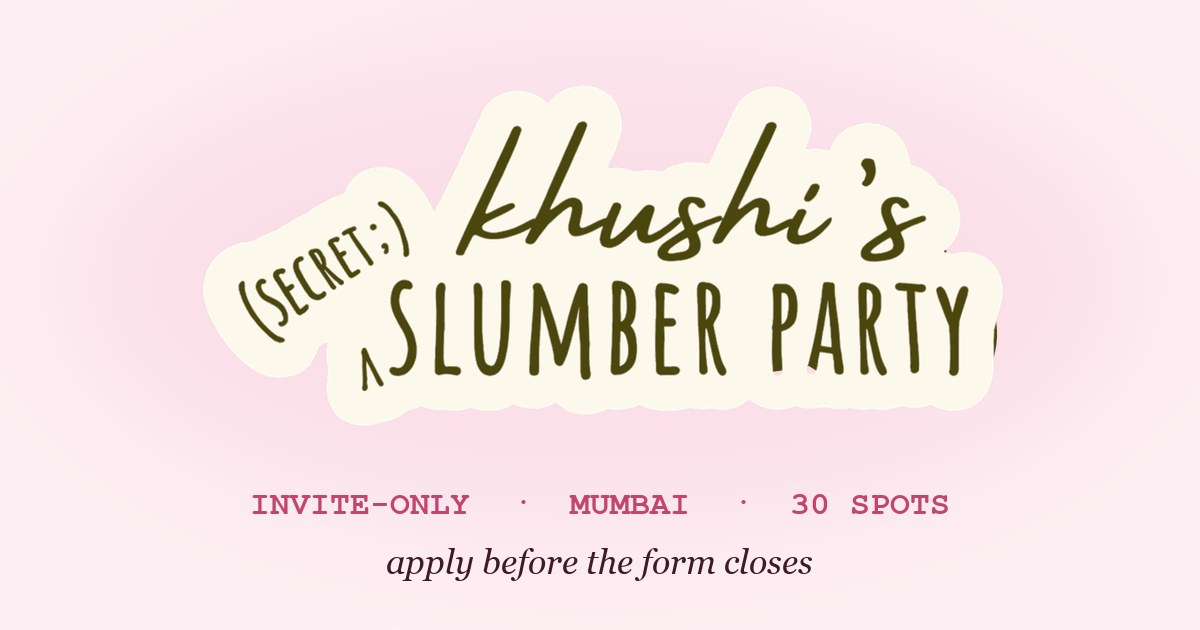
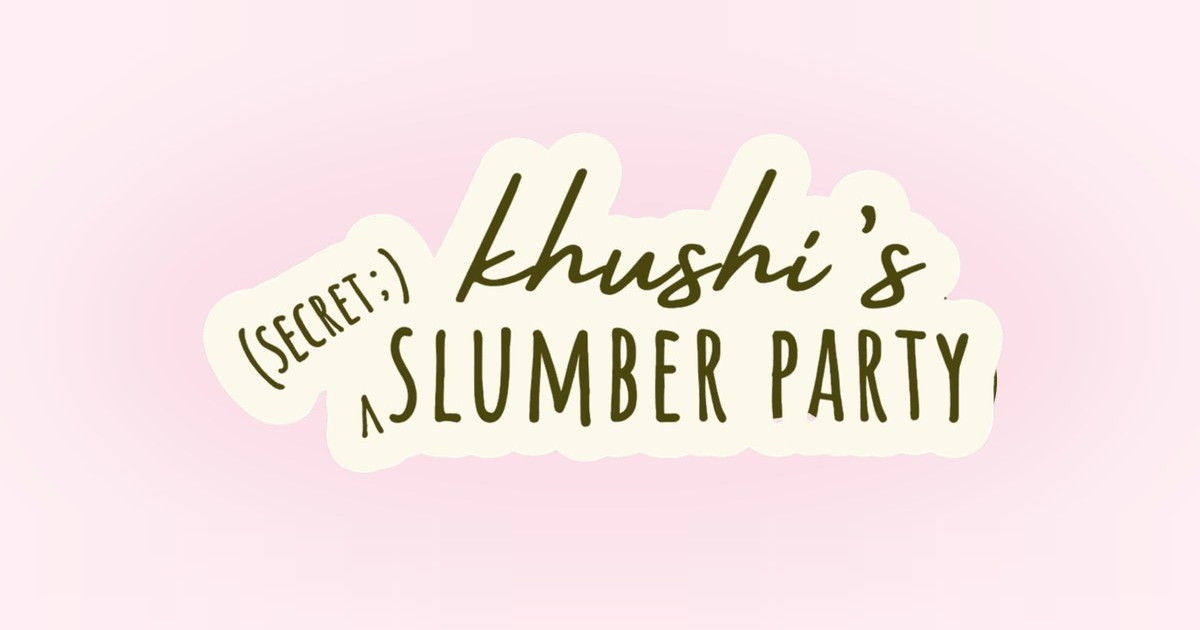
Team & vendors in admin, headcount, and the check-in thread as a phone on desktop
Team & vendors: a `crew` table (name, team/vendor, what they're doing, headcount,
staying over, notes) with admin-only RLS in both directions — the public key can
neither read it nor write to it. One row can cover several people, because a
catering company is one entry and six humans, and six near-identical rows is not
a roster.

Headcount tile totals the people to plan for: besties + creators + crew. Guests
count one each, crew count their headcount. A guest with no tier counts as a
bestie — that's what the list was before creators existed.

Check-in on desktop now gets the besties treatment: at ≥800px it stops being a
full-width page and becomes her phone held in the middle of the room. Stretched
across a monitor the bubbles read as a web form; at 30rem they read as a DM.

That made the thread its own scroll container, which broke following the newest
message: repeated smooth scrollIntoView calls inside a nested scroller interrupt
each other and never converge, leaving the thread stranded partway up with the
newest bubble below the fold (measured: 345 of 1124 scrollable pixels). All six
call sites now go through keepUp(), which aims at the container's bottom instead
— every call re-aims at the true end from wherever the last animation stopped.
The phone path is untouched and still lands clear of the compose bar.

Sharing card: copy is now "something big is coming", and the card is just the
logo — the taglines went with it, one of which still said 30 spots. Also
[…]

diff --git a/admin/index.html b/admin/index.html
@@ -151,6 +151,10 @@
   .tier{ font-size:.7rem; letter-spacing:.04em; text-transform:uppercase;
     border:1px solid var(--line); border-radius:100px; padding:.1rem .45rem; color:var(--ink-2); }
   .tier.creator{ border-color:var(--series); color:var(--series); }
+  .tier.vendor{ border-color:var(--ink-3); }
+  #crewTbl td, #crewTbl th{ white-space:nowrap; }
+  #crewTbl td:nth-child(6){ font-size:.78rem; color:var(--ink-2); min-width:160px; }
+  .yes{ color:var(--series); }
   code.invite{ font-family:var(--mono); font-size:.95rem; color:var(--ink-2);
     user-select:all; }
 
@@ -320,6 +324,48 @@
       is done: the reason to hold someone's Aadhaar for a party is gone the moment the party is.</p>
   </section>
 
+  <!-- ------------------------------------------------------- team & vendors -->
+  <section class="panel" style="margin-top:18px">
+    <div class="tablebar">
+      <h2 style="flex:1">team &amp; vendors</h2>
+      <span class="pill" id="crewCount">—</span>
+      <button class="btn ghost" id="crewCsv" type="button">download csv</button>
+    </div>
+    <p class="sub">everyone working the party, and who needs a bed. one row can cover several
+      people — set the headcount rather than adding a row each.</p>
+
+    <div class="scroll">
+      <table id="crewTbl">
+        <thead><tr>
+          <th>name</th><th>kind</th><th>doing what</th><th>people</th><th>staying</th>
+          <th>notes</th><th></th>
+        </tr></thead>
+        <tbody id="crewBody"></tbody>
+      </table>
+    </div>
+    <p class="empty" id="crewEmpty" hidden>nobody added yet.</p>
+
+    <form id="crewForm" style="display:flex;gap:8px;flex-wrap:wrap;align-items:flex-end;margin-top:14px">
+      <label style="flex:2;min-width:150px">name
+        <input id="crewName" type="text" placeholder="e.g. Ravi / Sunrise Catering" required
+          style="margin:0" /></label>
+      <label style="flex:1;min-width:110px">kind
+        <select id="crewKind" style="width:100%;font:inherit;color:var(--ink);background:var(--surface-2);
+          border:1px solid var(--line);border-radius:9px;padding:.6rem .75rem">
+          <option value="team">team</option>
+          <option value="vendor">vendor</option>
+        </select></label>
+      <label style="flex:2;min-width:140px">doing what
+        <input id="crewRole" type="text" placeholder="photographer, catering…" style="margin:0" /></label>
+      <label style="flex:0 0 92px">people
+        <input id="crewHead" type="number" min="1" max="99" value="1" style="margin:0" /></label>
+      <label style="flex:0 0 auto;display:flex;align-items:center;gap:.4rem;padding-bottom:.55rem">
+        <input id="crewStay" type="checkbox" style="width:auto;margin:0" /> staying over</label>
+      <button class="btn" type="submit" style="width:auto">add</button>
+      <span class="sub" id="crewMsg" style="margin:0"></span>
+    </form>
+  </section>
+
   <!-- Only rendered when there's something to say. A permanent "0 failures" panel
        trains you to ignore the space it occupies. -->
   <section class="panel" id="failPanel" style="margin-top:18px; display:none">
@@ -385,12 +431,12 @@ document.getElementById('out').addEventListener('click', async () => {
 sb.auth.getSession().then(({ data }) => { if (data.session) boot(); });
 
 /* -------------------------------------------------------------------- data */
-let APPS = [], VISITS = [], CHECKINS = [], GUESTS = [], FAILS = [];
+let APPS = [], VISITS = [], CHECKINS = [], GUESTS = [], FAILS = [], CREW = [];
 
 async function boot() {
   // RLS decides this, not the UI: a signed-in user who isn't in `admins`
   // gets zero rows back rather than an error, so say so plainly.
-  const [a, v, c, g, f] = await Promise.all([
+  const [a, v, c, g, f, w] = await Promise.all([
     sb.from('applications').select('*').order('created_at', { ascending: false }),
     sb.from('visits').select('reached,tz,created_at,session_id,source,device'),
     // these two 404 until schema-checkin.sql has been run; the panel just stays
@@ -400,11 +446,12 @@ async function boot() {
     // submissions that never landed — the only record that they happened
     sb.from('submit_log').select('kind,note,created_at')
       .eq('kind', 'application_failed').order('created_at', { ascending: false }).limit(50),
+    sb.from('crew').select('*'),
   ]);
   if (a.error) { loginMsg.textContent = a.error.message; loginMsg.className = 'msg err'; return; }
 
   APPS = a.data || []; VISITS = v.data || [];
-  CHECKINS = c.data || []; GUESTS = g.data || []; FAILS = f.data || [];
+  CHECKINS = c.data || []; GUESTS = g.data || []; FAILS = f.data || []; CREW = w.data || [];
   if (c.error) console.warn('checkins unavailable — run supabase/schema-checkin.sql', c.error.message);
   loginEl.style.display = 'none'; appEl.style.display = 'block';
   renderAll();
@@ -416,6 +463,14 @@ async function boot() {
         p => { VISITS.push(p.new); renderAll(); })
     .on('postgres_changes', { event: 'INSERT', schema: 'public', table: 'checkins' },
         p => { CHECKINS.unshift(p.new); renderAll(); flashLive('new check-in'); })
+    /* two people adding crew from different laptops is the normal case here, so
+       this listens for all three verbs rather than just INSERT */
+    .on('postgres_changes', { event: '*', schema: 'public', table: 'crew' }, p => {
+      if (p.eventType === 'DELETE')      CREW = CREW.filter(r => r.id !== p.old.id);
+      else if (p.eventType === 'UPDATE') CREW = CREW.map(r => r.id === p.new.id ? p.new : r);
+      else if (!CREW.some(r => r.id === p.new.id)) CREW.push(p.new);
+      renderAll();
+    })
     .subscribe();
 }
 
@@ -451,7 +506,7 @@ function tally(list, pick) {
   return [...m.entries()].sort((x, y) => y[1] - x[1]);
 }
 
-function renderAll() { tiles(); days(); funnel(); dropoff(); sources(); cities(); roles(); zones(); table(); checkinPanel(); failPanel(); }
+function renderAll() { tiles(); days(); funnel(); dropoff(); sources(); cities(); roles(); zones(); table(); checkinPanel(); crewPanel(); failPanel(); }
 
 /* Submissions this database refused. Hidden entirely when there are none. */
 function failPanel() {
@@ -663,13 +718,113 @@ function tiles() {
 
   const put = (k, v, n, cls) =>
     `<div class="tile"><div class="k">${k}</div><div class="v"${cls ? ` class="${cls}"` : ''}>${v}</div><div class="n">${n}</div></div>`;
+  const h = headcount();
   document.getElementById('tiles').innerHTML =
     put('active now', live || '0', 'sessions in the last 5 min') +
+    put('headcount', h.total, `${h.besties} besties · ${h.creators} creators · ${h.crew} team/vendors`) +
     put('applications', APPS.length, `${last24} in the last 24h`) +
     put('sessions', sessions || '—', 'browser tabs that landed') +
     put('completion', rate === null ? '—' : rate + '%', 'landed → applied') +
     put('cities', cityCount, 'distinct places');
 }
+
+/* ============================================================================
+   HEADCOUNT
+   How many bodies to plan for, which is a different question from how many rows
+   are in a table: one vendor row can be four people, so crew counts headcount
+   rather than entries. Guests are one person each.
+   Anyone on the guest list without a tier is counted as a bestie — that's what
+   the list was before creators existed, and silently dropping them from the
+   total would be worse than filing them under the older label.
+   ========================================================================== */
+function headcount() {
+  const creators = GUESTS.filter(g => norm(g.tier) === 'creator').length;
+  const besties  = GUESTS.length - creators;
+  const crew     = CREW.reduce((n, r) => n + (Number(r.headcount) || 1), 0);
+  return { creators, besties, crew, total: besties + creators + crew };
+}
+
+/* ============================================================================
+   TEAM & VENDORS
+   Not guests: the people working the party. Separate table because they need
+   different things — a headcount per entry (a catering company is one row and
+   six people) and whether they sleep here, which is the whole reason the party
+   needs to know about them at all.
+   ========================================================================== */
+function crewPanel() {
+  const body = document.getElementById('crewBody');
+  if (!body) return;
+
+  const h = headcount();
+  const staying = CREW.filter(r => r.staying).reduce((n, r) => n + (Number(r.headcount) || 1), 0);
+  document.getElementById('crewCount').textContent =
+    CREW.length ? `${h.crew} ${h.crew === 1 ? 'person' : 'people'} · ${staying} staying over` : '—';
+  document.getElementById('crewEmpty').hidden = CREW.length > 0;
+
+  // team first, then vendors, alphabetical inside each — the order you'd read it
+  const rows = [...CREW].sort((a, b) =>
+    (a.kind === b.kind ? 0 : a.kind === 'team' ? -1 : 1) ||
+    String(a.name).localeCompare(String(b.name)));
+
+  body.innerHTML = rows.map(r => `<tr>
+    <td>${esc(r.name)}</td>
+    <td><span class="tier ${r.kind === 'vendor' ? 'vendor' : ''}">${esc(r.kind)}</span></td>
+    <td>${esc(r.role || '—')}</td>
+    <td>${Number(r.headcount) || 1}</td>
+    <td>${r.staying ? '<span class="yes">yes</span>' : '<span class="muted">no</span>'}</td>
+    <td style="white-space:normal">${esc(r.notes || '—')}</td>
+    <td><button class="btn ghost" data-crew="${esc(r.id)}" type="button"
+          style="padding:4px 10px;font-size:12px">remove</button></td>
+  </tr>`).join('');
+}
+
+document.getElementById('crewBody').addEventListener('click', async (e) => {
+  const btn = e.target.closest('[data-crew]');
+  if (!btn) return;
+  const row = CREW.find(r => r.id === btn.dataset.crew);
+  if (!confirm(`Remove ${row ? row.name : 'this entry'} from team & vendors?`)) return;
+  btn.disabled = true; btn.textContent = 'removing…';
+  const { error } = await sb.from('crew').delete().eq('id', btn.dataset.crew);
+  if (error) { btn.disabled = false; btn.textContent = 'remove'; crewMsg.textContent = error.message; return; }
+  CREW = CREW.filter(r => r.id !== btn.dataset.crew);
+  renderAll();
+});
+
+document.getElementById('crewForm').addEventListener('submit', async (e) => {
+  e.preventDefault();
+  const msg = document.getElementById('crewMsg');
+  const name = crewName.value.trim();
+  if (!name) return;
+  const row = {
+    name,
+    kind: crewKind.value,
+    role: crewRole.value.trim() || null,
+    /* the input allows anything typeable; the column allows 1–99. Clamp here so a
+       stray keystroke reads as a sane number instead of a database error. */
+    headcount: Math.min(99, Math.max(1, parseInt(crewHead.value, 10) || 1)),
+    staying: crewStay.checked,
+  };
+  msg.textContent = 'adding…';
+  const { data, error } = await sb.from('crew').insert(row).select().single();
+  if (error) { msg.textContent = error.message; msg.className = 'sub err'; return; }
+  CREW.push(data);
+  msg.textContent = `added ${data.name}`; msg.className = 'sub';
+  crewForm.reset(); crewHead.value = 1; crewName.focus();
+  renderAll();
+  setTimeout(() => { if (msg.textContent.startsWith('added')) msg.textContent = ''; }, 4000);
+});
+
+document.getElementById('crewCsv').addEventListener('click', () => {
+  const head = ['name', 'kind', 'doing what', 'people', 'staying over', 'notes'];
+  const cell = v => `"${String(v ?? '').replace(/"/g, '""')}"`;
+  const body = CREW.map(r => [r.name, r.kind, r.role || '', Number(r.headcount) || 1,
+                              r.staying ? 'yes' : 'no', r.notes || ''].map(cell).join(','));
+  const url = URL.createObjectURL(new Blob([[head.map(cell).join(','), ...body].join('\n')],
+    { type: 'text/csv' }));
+  const a = document.createElement('a');
+  a.href = url; a.download = 'team-and-vendors.csv'; a.click();
+  URL.revokeObjectURL(url);
+});
 
 /* The live count decays with the clock, not with new rows — without this it would
    sit at whatever it was when the last visit landed and look stuck. */

diff --git a/checkin/index.html b/checkin/index.html
@@ -113,6 +113,37 @@
     padding:0 .4rem; }
   .lock a{ color:var(--pink); }
   a.back{ display:inline-block; margin-top:1.2rem; color:var(--soft); font-size:1.15rem; }
+
+  /* ---------------------------------------------------------------- desktop --
+     Same treatment as the besties thread: on a wide screen this stops being a
+     page and becomes her phone, held in the middle of the room. Stretched across
+     a 27" monitor the bubbles read as a web form; at 30rem they read as a DM,
+     which is the whole point of doing check-in as a conversation.
+
+     The card is a fixed height, so the thread has to become its own scroll
+     container — otherwise `overflow:hidden` on the frame simply clips the
+     conversation. That also makes the sticky compose bar redundant here: it sits
+     outside the scroller now, permanently at the bottom of the card, so the
+     scroll-margin the bubbles carry to clear it is no longer needed. */
+  @media (min-width:800px){
+    body{ min-height:100dvh; display:grid; place-items:center; }
+    .wrap{ width:min(30rem,100%); min-height:0; height:min(46rem, calc(100dvh - 3rem));
+      border-radius:26px; overflow:hidden; border:1px solid rgba(245,195,207,.16);
+      /* the second shadow is a 100vmax spread — it dims the whole room around
+         the phone without needing an overlay element to do it */
+      box-shadow:0 40px 90px rgba(0,0,0,.6), 0 0 0 100vmax rgba(10,3,8,.5); }
+    /* no scroll-behavior here on purpose — every scrollIntoView call in the flow
+       already asks for smooth explicitly, and setting it in CSS too stacks a
+       second animation on the same scroll */
+    .thread{ min-height:0; overflow-y:auto; overscroll-behavior:contain;
+      -webkit-overflow-scrolling:touch; }
+    .thread::-webkit-scrollbar{ width:.3rem; }
+    .thread::-webkit-scrollbar-thumb{ background:rgba(255,255,255,.14); border-radius:1rem; }
+    .msg,.sys,.done{ scroll-margin-bottom:0; }
+    /* the frame already ends the page; a sticky bar inside it would be a no-op
+       with a border that reads as a seam */
+    .compose{ position:static; }
+  }
 </style>
 </head>
 <body>
@@ -154,18 +185,41 @@ const sleep = (ms) => new Promise(r => setTimeout(r, ms));
 const esc = (s) => String(s).replace(/[&<>"']/g, c => (
   { '&':'&amp;','<':'&lt;','>':'&gt;','"':'&quot;',"'":'&#39;' }[c]));
 
+/* Keeps the newest thing in view. Every caller has just appended to the end of
+   the thread, so "follow the newest" and "go to the bottom" mean the same thing
+   here — which is what makes the desktop branch safe.
+
+   Two branches because there are two scrollers. On a phone the page itself
+   scrolls and scrollIntoView is the right call: the bubbles carry a
+   scroll-margin so they land clear of the sticky compose bar. Inside the desktop
+   card the thread is its own scroller, and there repeated smooth scrollIntoView
+   calls do NOT converge — each one interrupts the last and only animates part of
+   the way, so a quick run of bubbles leaves the thread stranded partway up with
+   the newest message below the fold. Aiming at the container's bottom fixes that
+   by construction: every call re-aims at the true end from wherever the previous
+   animation got to, and an over-large target simply clamps.
+   Read off the computed overflow rather than re-testing the breakpoint in JS, so
+   there's only one place the 800px boundary is written down. */
+function keepUp(el){
+  if (getComputedStyle(thread).overflowY === 'auto') {
+    thread.scrollTo({ top: thread.scrollHeight, behavior:'smooth' });
+  } else {
+    el.scrollIntoView({ block:'end', behavior:'smooth' });
+  }
+}
+
 function bubble(cls, text){
   const p = document.createElement('p');
   p.className = 'msg ' + cls;
   p.textContent = text;
   thread.appendChild(p);
-  p.scrollIntoView({ block:'end', behavior:'smooth' });
+  keepUp(p);
   return p;
 }
 function sys(text){
   const p = document.createElement('p');
   p.className = 'sys'; p.textContent = text;
-  thread.appendChild(p); p.scrollIntoView({ block:'end', behavior:'smooth' });
+  thread.appendChild(p); keepUp(p);
 }
 /** her line, with the typing beat first — the pause is what makes it read as
     someone typing rather than a form validating */
@@ -173,7 +227,7 @@ async function her(text, beat = 620){
   const t = document.createElement('div');
   t.className = 'msg her typing';
   t.innerHTML = '<i></i><i></i><i></i>';
-  thread.appendChild(t); t.scrollIntoView({ block:'end', behavior:'smooth' });
+  thread.appendChild(t); keepUp(t);
   await sleep(beat);
   t.remove();
   return bubble('her', text);
@@ -361,7 +415,7 @@ function photoBubble(thumb){
     ? '<img alt="the ID you attached" src="' + thumb + '"><span class="cap">my ID 📎</span>'
     : '<span class="pdf">📄 my ID (pdf)</span>';
   thread.appendChild(p);
-  p.scrollIntoView({ block:'end', behavior:'smooth' });
+  keepUp(p);
 }
 
 function accept(q, value, echo){
@@ -432,7 +486,7 @@ async function finish(){
     again.style.margin = '.6rem auto 0'; again.style.display = 'block';
     again.addEventListener('click', () => { again.remove(); finish(); });
     thread.appendChild(again);
-    again.scrollIntoView({ block:'end', behavior:'smooth' });
+    keepUp(again);
     return;
   }
   await her('done ✨ you\'re checked in.');
@@ -476,7 +530,7 @@ function outro(title, sub){
     'building\'s door list. see the <a href="/privacy.html">privacy policy</a>.</p>' +
     '<a class="back" href="/besties/">‹ back to the invite</a>';
   thread.appendChild(d);
-  d.scrollIntoView({ block:'end', behavior:'smooth' });
+  keepUp(d);
 }
 
 /* go */

diff --git a/index.html b/index.html
@@ -25,13 +25,13 @@
      for why they are deliberately still crawlable.
      ========================================================================= -->
 <title>Khushi's Secret Slumber Party — invite-only sleepover in Mumbai</title>
-<meta name="description" content="An invite-only slumber party in Mumbai for creators, artists and dreamers. 30 spots, by application only — apply before the form closes." />
+<meta name="description" content="Something big is coming. 35 friends, creators, artists, dreamers and some of you get to know before everyone else." />
 
 <!-- the same words again, for shared links -->
 <meta property="og:title" content="Khushi's Secret Slumber Party" />
-<meta property="og:description" content="An invite-only slumber party in Mumbai for creators, artists and dreamers. 30 spots, by application only." />
+<meta property="og:description" content="Something big is coming. 35 friends, creators, artists, dreamers and some of you get to know before everyone else." />
 <meta name="twitter:title" content="Khushi's Secret Slumber Party" />
-<meta name="twitter:description" content="An invite-only slumber party in Mumbai for creators, artists and dreamers. 30 spots, by application only." />
+<meta name="twitter:description" content="Something big is coming. 35 friends, creators, artists, dreamers and some of you get to know before everyone else." />
 
 <!-- ---- the rest of the sharing card: rarely needs touching ---- -->
 <!-- One canonical spelling of the address. Without this, secretslumberparty.com,
@@ -71,7 +71,7 @@
       "@id": "https://secretslumberparty.com/#website",
       "url": "https://secretslumberparty.com/",
       "name": "Khushi's Secret Slumber Party",
-      "description": "An invite-only slumber party in Mumbai for creators, artists and dreamers.",
+      "description": "Something big is coming. 35 friends, creators, artists, dreamers and some of you get to know before everyone else.",
       "inLanguage": "en-IN",
       "publisher": { "@id": "https://secretslumberparty.com/#org" }
     },
@@ -92,7 +92,7 @@
       "name": "Khushi's Secret Slumber Party — invite-only sleepover in Mumbai",
       "isPartOf": { "@id": "https://secretslumberparty.com/#website" },
       "primaryImageOfPage": "https://secretslumberparty.com/assets/og.jpg",
-      "description": "An invite-only slumber party in Mumbai for creators, artists and dreamers. 30 spots, by application only."
+      "description": "Something big is coming. 35 friends, creators, artists, dreamers and some of you get to know before everyone else."
     }
   ]
 }
